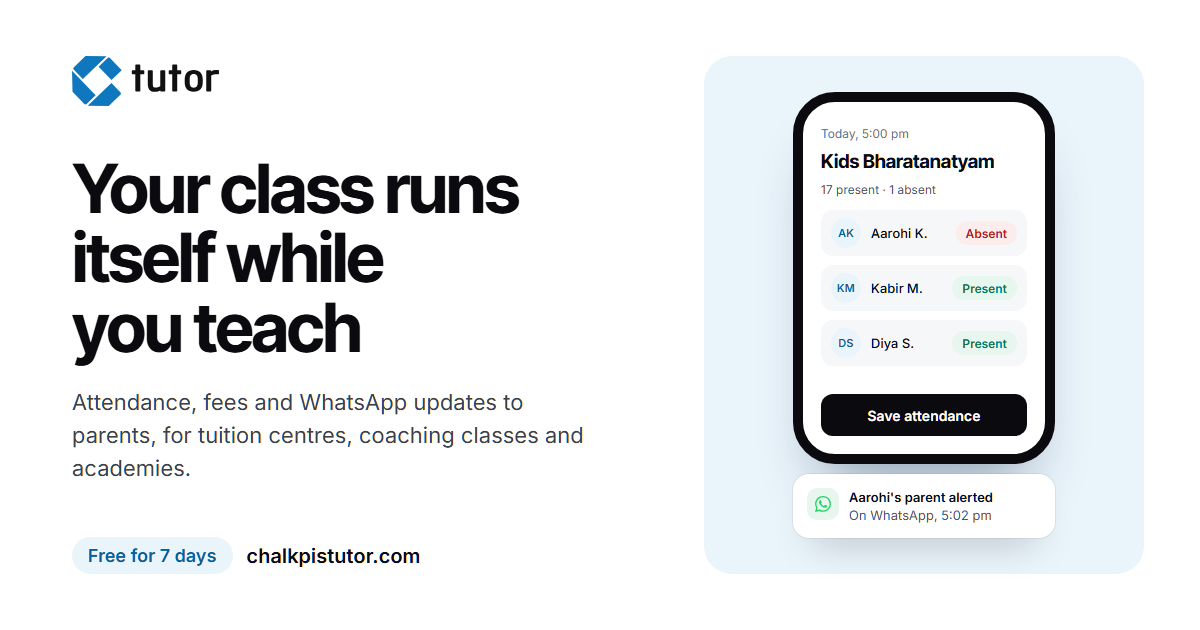
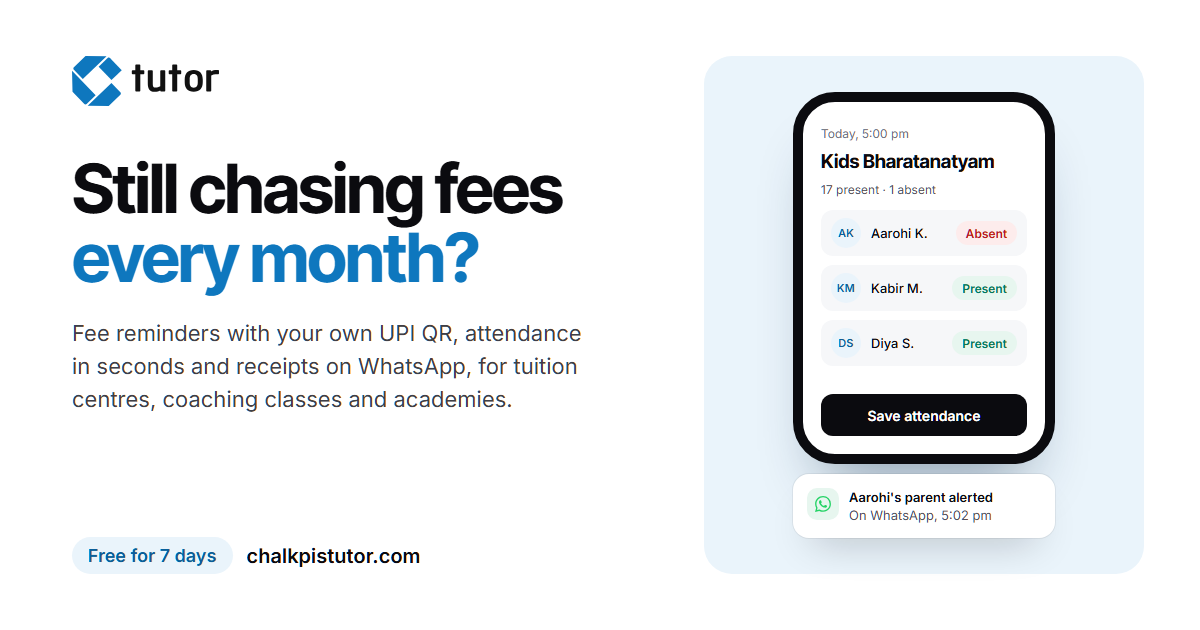
Link preview image with the new headline; Facebook Page cover from the same design
npm run images now also writes marketing/social/facebook-cover-1640x624.png (content kept in the middle, clear of
the profile picture and the phone crop).

Changed region(s): [[0.0617, 0.2413, 0.4933, 0.754]]

diff --git a/website/scripts/og.html b/website/scripts/og.html
@@ -1,7 +1,8 @@
 <!doctype html>
 <!--
-  The link preview image (public/og.png, 1200×630) for WhatsApp, Facebook, Meta ads and X.
-  Photographed by scripts/make-images.mjs with headless Chrome. Same look as the home page hero.
+  The link preview image (public/og.png, 1200×630) for WhatsApp, Facebook, Meta ads and X, and with ?cover the
+  Facebook Page cover (1640×624, everything kept in the middle 1100 px that phones and the profile picture leave).
+  Photographed by scripts/make-images.mjs with headless Chrome. Same look and headline as the home page hero.
 -->
 <html lang="en">
 <head>
@@ -33,13 +34,25 @@ h1{margin-top:48px;font-family:'Inter Tight',sans-serif;font-weight:700;font-siz
 .toast{position:absolute;left:50%;bottom:36px;transform:translateX(-50%);width:262px;background:#FFFFFF;border-radius:16px;padding:14px;display:flex;gap:10px;box-shadow:0 20px 40px -20px rgba(11,11,15,0.3),0 0 0 1px rgba(11,11,15,0.06);font-size:13px;line-height:1.4}
 .toast .ic{width:32px;height:32px;flex:none;border-radius:10px;background:#E7F6EF;display:flex;align-items:center;justify-content:center}
 .toast strong{display:block;font-weight:600}.toast span.s{color:#52525B}
+.hl{color:#0E77BE}
+/* Facebook cover: wider, shorter, content in the middle */
+html.cover,html.cover body{width:1640px;height:624px}
+html.cover body{padding:64px 270px;gap:64px}
+html.cover h1{margin-top:36px;font-size:66px}
+html.cover .lead{max-width:560px}
+/* the Page's profile picture covers the bottom-left corner on desktop */
+html.cover .foot{margin-top:32px}
+html.cover .art{width:420px}
+html.cover .toast{display:none}
+html.cover .phone{top:44px}
 </style>
+<script>if (location.search.indexOf('cover') >= 0) document.documentElement.classList.add('cover');</script>
 </head>
 <body>
 <div class="text">
 <svg viewBox="0 0 2942 1001" width="147" height="50" aria-label="ChalkPis Tutor"><g fill="#0E77BE"><path d="M37.3399 224.58C23.0399 238.35 23.1199 261.23 37.3299 275.98L216.18 461.67L691.6 3.77L270.51 0L37.3399 224.58Z"/><path d="M995.16 284.07L763.93 44.0001C749.76 29.2901 727.01 28.4601 712.65 42.2901L532.89 215.43L789.81 482.18"/><path d="M967.45 776.33C981.56 762.74 981.8 739.56 967.66 724.88L788.81 539.19L313.33 997.15L734.19 1000.94L967.46 776.33H967.45Z"/><path d="M241.7 957.72C255.74 972.3 278.75 972.95 292.89 959.33L472.81 786.04L0 295.15L9.91 716.69L241.7 957.72Z"/></g><g transform="translate(1197 0)" fill="#111111"><path d="M85 170H155C163.3 170 170 176.7 170 185V285.2H235C243.3 285.2 250 292 250 300.2V350C250 358.3 243.3 365 235 365H170V696.6C170 704.9 163.3 711.6 155 711.6H85C76.7 711.6 70 704.9 70 696.6V365H15C6.7 365 0 358.3 0 350V300.2C0 292 6.7 285.2 15 285.2H70V185C70 176.7 76.7 170 85 170Z"/><path transform="translate(320 0) rotate(180 174.64 498.4) translate(-1544.77 0)" d="M1878.92 711.59H1809.37C1801.05 711.59 1794.25 704.03 1794.25 695.71V446.99C1794.25 381.22 1782.91 364.59 1732.26 364.59C1706.56 364.59 1676.32 373.66 1644.56 390.29V695.71C1644.56 704.03 1637.76 711.59 1629.44 711.59H1559.89C1551.57 711.59 1544.77 704.03 1544.77 695.71V300.32C1544.77 292 1551.57 285.2 1559.89 285.2H1629.44C1637.76 285.2 1644.56 292 1644.56 300.32V307.88C1673.29 290.49 1705.04 279.91 1758.72 279.91C1863.05 279.91 1894.04 354 1894.04 446.99V695.71C1894.04 704.03 1887.24 711.59 1878.92 711.59Z"/><path transform="translate(739 0)" d="M85 170H155C163.3 170 170 176.7 170 185V285.2H235C243.3 285.2 250 292 250 300.2V350C250 358.3 243.3 365 235 365H170V696.6C170 704.9 163.3 711.6 155 711.6H85C76.7 711.6 70 704.9 70 696.6V365H15C6.7 365 0 358.3 0 350V300.2C0 292 6.7 285.2 15 285.2H70V185C70 176.7 76.7 170 85 170Z"/><path transform="translate(-1875.27 0)" fill-rule="evenodd" d="M3114.95 279.91C3236.67 279.91 3295.63 351.73 3295.63 469.67V527.88C3295.63 645.82 3236.66 717.63 3114.95 717.63C2993.24 717.63 2934.27 645.82 2934.27 527.88V469.67C2934.27 351.73 2993.23 279.91 3114.95 279.91ZM3114.95 361.56C3049.940 361.56 3034.06 407.68 3034.06 469.67V527.87C3034.06 589.86 3049.93 635.98 3114.95 635.98C3179.97 635.98 3195.84 589.86 3195.84 527.87V469.67C3195.84 407.68 3179.96 361.56 3114.95 361.56Z"/><path transform="translate(-54.77 0)" d="M1644.56 307.88C1673.29 290.49 1705.04 279.91 1758.72 279.91H1786C1794 279.91 1800 286 1800 294V350.59C1800 358.59 1794 364.59 1786 364.59H1732.26C1706.56 364.59 1676.32 373.66 1644.56 390.29V695.71C1644.56 704.03 1637.76 711.59 1629.44 711.59H1559.89C1551.57 711.59 1544.77 704.03 1544.77 695.71V300.32C1544.77 292 1551.57 285.2 1559.89 285.2H1629.44C1637.76 285.2 1644.56 292 1644.56 300.32V307.88Z"/></g></svg>
-<h1>Your class runs itself while you teach</h1>
-<p class="lead">Attendance, fees and WhatsApp updates to parents, for tuition centres, coaching classes and academies.</p>
+<h1>Still chasing fees <span class="hl">every month?</span></h1>
+<p class="lead">Fee reminders with your own UPI QR, attendance in seconds and receipts on WhatsApp, for tuition centres, coaching classes and academies.</p>
 <div class="foot"><span class="pill">Free for 7 days</span><span>chalkpistutor.com</span></div>
 </div>
 <div class="art">
